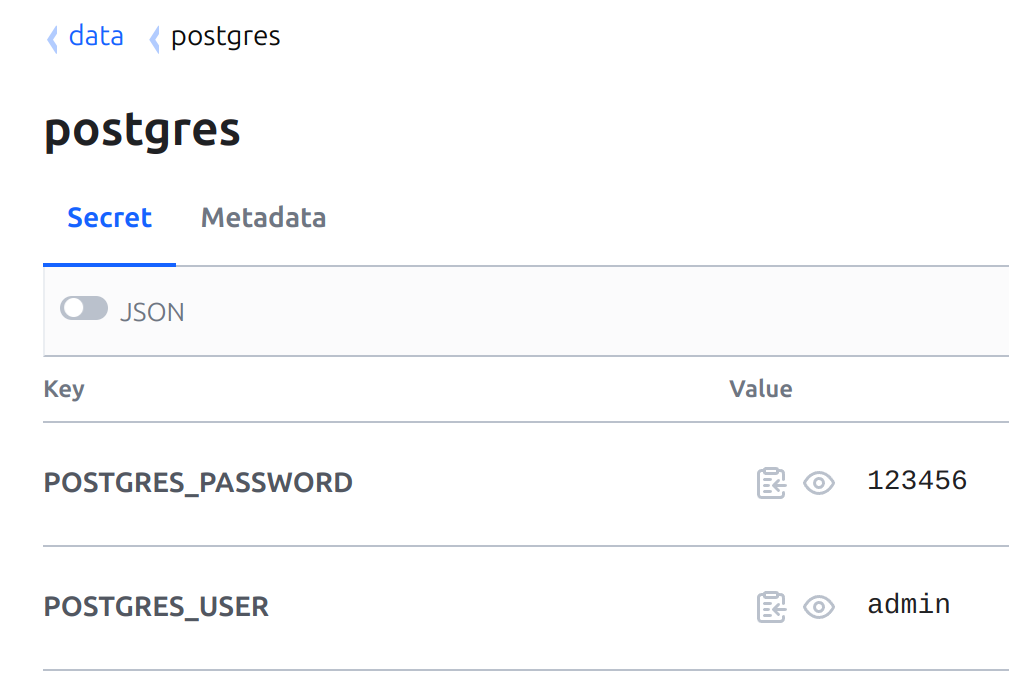
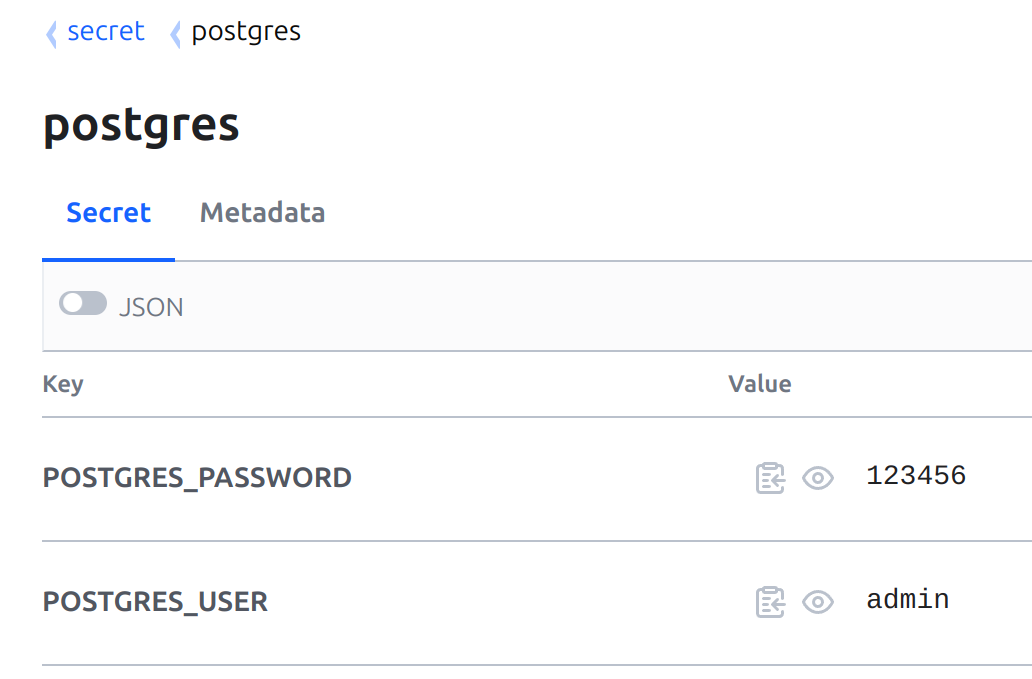
secret/data/postgres

diff --git a/README.md b/README.md
@@ -19,27 +19,27 @@ helm install vault oci://registry-1.docker.io/bitnamicharts/vault --version 0.2.
 ```shell
 $ kubectl get pods --namespace "vault" -l app.kubernetes.io/instance=vault
 NAME                              READY   STATUS    RESTARTS   AGE
-vault-injector-6f8fb5dcff-bbl2s   0/1     Running   0          14s
-vault-server-0                    0/1     Pending   0          7s
+vault-injector-6f8fb5dcff-52jwb   1/1     Running   0          4m
+vault-server-0                    0/1     Running   0          4m
 ```
 
 - Инициализируйте один сервер хранилища с количеством общих ключей по умолчанию и пороговым значением ключа по умолчанию:
 ```shell
 $ kubectl exec -ti vault-server-0 -n vault -- vault operator init
-Unseal Key 1: A1zYR6DZ3n29AKHr5bOJLj8fFkWpGKiKm8FTeYCtLk6z
-Unseal Key 2: qEl/ng1ErOXUQx7XoA1vGOnFn8K+70pQpEXTuopsAKEP
-Unseal Key 3: 7CSLzJmloLs7bWC9EeCMUazy/dOfPF6lJRgJsK06LSxP
-Unseal Key 4: F9GJcqYM7APaIPk+ZdrVz9enDtfm85cnm1tf+PvJTHu8
-Unseal Key 5: nSkLvgDy/2L/6QlNxDL9Kc/aCYnCSPY3hu4dEj2o7n+9
+Unseal Key 1: saVvgBvCu2Uo9S6w66hU0K97QttugIVOnc4wqyry7B23
+Unseal Key 2: ILRHCIG5iBKkN+GJV76dVXafGrWzOsLpEEJbK+jtcpWL
+Unseal Key 3: Dsh8wx+hkx88/P/DN+UM/ZdJEcS+qsgCb5AcmF8EjDnq
+Unseal Key 4: +0NdfXT/63TZDFGsgeo/C7v5TpAfp3YqiaA/9Mw3xb8j
+Unseal Key 5: +RWg1Qc0UAEfocRWtLOdBCIJayAS6GdHUXk/oTtnpOLo
 
-Initial Root Token: hvs.t0chVgBFR0lRle6pHNnO7VhM
+Initial Root Token: hvs.Fn8kK1BkuudWYa9K8PuEJKki
 ```
 
 - В выходных данных отображаются общие ключи и сгенерированный исходный корневой ключ. Распечатайте сервер hashicorp vault с общими ключами до тех пор, пока не будет достигнуто пороговое значение ключа:
 ```shell
-$ kubectl exec -ti vault-server-0 -n vault -- vault operator unseal # ... Unseal Key 1
-$ kubectl exec -ti vault-server-0 -n vault -- vault operator unseal # ... Unseal Key 2
-$ kubectl exec -ti vault-server-0 -n vault -- vault operator unseal # ... Unseal Key 3
+kubectl exec -ti vault-server-0 -n vault -- vault operator unseal # ... Unseal Key 1
+kubectl exec -ti vault-server-0 -n vault -- vault operator unseal # ... Unseal Key 2
+kubectl exec -ti vault-server-0 -n vault -- vault operator unseal # ... Unseal Key 3
 ```
 
 - В ОТДЕЛЬНОМ терминале пробросьте порт 8200 от hashicorp vault
@@ -55,14 +55,62 @@ export VAULT_ADDR=http://127.0.0.1:8200
 Вы можете либо настроить AppRole в Vault из CLI либо через terraform код.
 
 Настроим AppRole Vault через terraform.
-Переходим в директорию с файлом `setting-approle-vault.tf`
-```shell
-cd vault-resource
+
+Создайте `setting-approle-vault.tf` со следующим содержимым:
+```hcl
+# Включение engine kv из CLI.
+resource "vault_mount" "kvv2-secret" {
+  path        = "secret"
+  type        = "kv"
+  options     = { version = "2" }
+  description = "KV Version 2 secret engine mount"
+}
+
+# Включение approle из CLI.
+resource "vault_auth_backend" "approle" {
+  type = "approle"
+}
+
+# Создание политики для чтения по пути secret/postgres
+resource "vault_policy" "secret-read-policy" {
+  name = "read-policy"
+
+  policy = <<EOT
+path "secret/data/postgres" {
+  capabilities = ["read", "list"]
+}
+EOT
+}
+
+# Создание роль для approle.
+resource "vault_approle_auth_backend_role" "secret" {
+  backend        = vault_auth_backend.approle.path
+  role_name      = "secret"
+  token_policies = ["read-policy"]
+}
+
+# Создание секретного идентификатора (secret_id)
+resource "vault_approle_auth_backend_role_secret_id" "id" {
+  backend   = vault_auth_backend.approle.path
+  role_name = vault_approle_auth_backend_role.secret.role_name
+}
+
+# Получение id роли approle (role_id)
+output "role_id" {
+  value     = vault_approle_auth_backend_role.secret.role_id
+  sensitive = true
+}
+
+# Получение секретного идентификатора (secret_id)
+output "secret_id" {
+  value     = vault_approle_auth_backend_role_secret_id.id.secret_id
+  sensitive = true
+}
 ```
 
 Экспортируем ваш токен (в данном случае root токен)
 ```shell
-export VAULT_TOKEN=hvs.t0chVgBFR0lRle6pHNnO7VhM
+export VAULT_TOKEN=hvs.Fn8kK1BkuudWYa9K8PuEJKki
 ```
 
 Применим конфигурацию terraform.
@@ -73,18 +121,30 @@ terraform apply
 
 - Создайте секрет из CLI.
 ```shell
-vault kv put secret/postgres POSTGRES_USER=admin POSTGRES_PASSWORD=123456
+$ vault kv put secret/postgres POSTGRES_USER=admin POSTGRES_PASSWORD=123456
+==== Secret Path ====
+secret/data/postgres
+
+======= Metadata =======
+Key                Value
+---                -----
+created_time       2023-06-13T04:02:53.164920751Z
+custom_metadata    <nil>
+deletion_time      n/a
+destroyed          false
+version            1
 ```
+
+Обратим внимание что Secret Path имеет значение `secret/data/postgres`.
+Именно этот Secret Path прописываем в external-secret.yaml.
 
 Либо создайте Vault секрет через UI как показано на скриншоте:
 ![Create-vault-secret-from-cli.png](vault-resource/Create-vault-secret-from-cli.png)
 
 Выведим на экран терминала role-id и secret-id и запоминаем их значение.
-B выходим из директории vault-resource.
 ```shell
 terraform output role_id
 terraform output secret_id
-cd ..
 ```
 
 Если вам интересно настроить AppRole в Vault из CLI, то настройка описано в отдельном файле 

diff --git a/vault-resource/create-approle-vault-cli.md b/vault-resource/create-approle-vault-cli.md
@@ -93,7 +93,7 @@ resource "vault_auth_backend" "approle" {
 - Создайте политику для чтения по пути app/*
 ```shell
 vault policy write read-policy -<<EOF
-path "secret/*" {
+path "secret/data/postgres" {
 capabilities = [ "read", "list" ]
 }
 EOF
@@ -105,7 +105,7 @@ resource "vault_policy" "read-policy" {
   name = "read-policy"
 
   policy = <<EOT
-path "secret/*" {
+path "secret/data/postgres" {
   capabilities = ["read", "list"]
 }
 EOT
